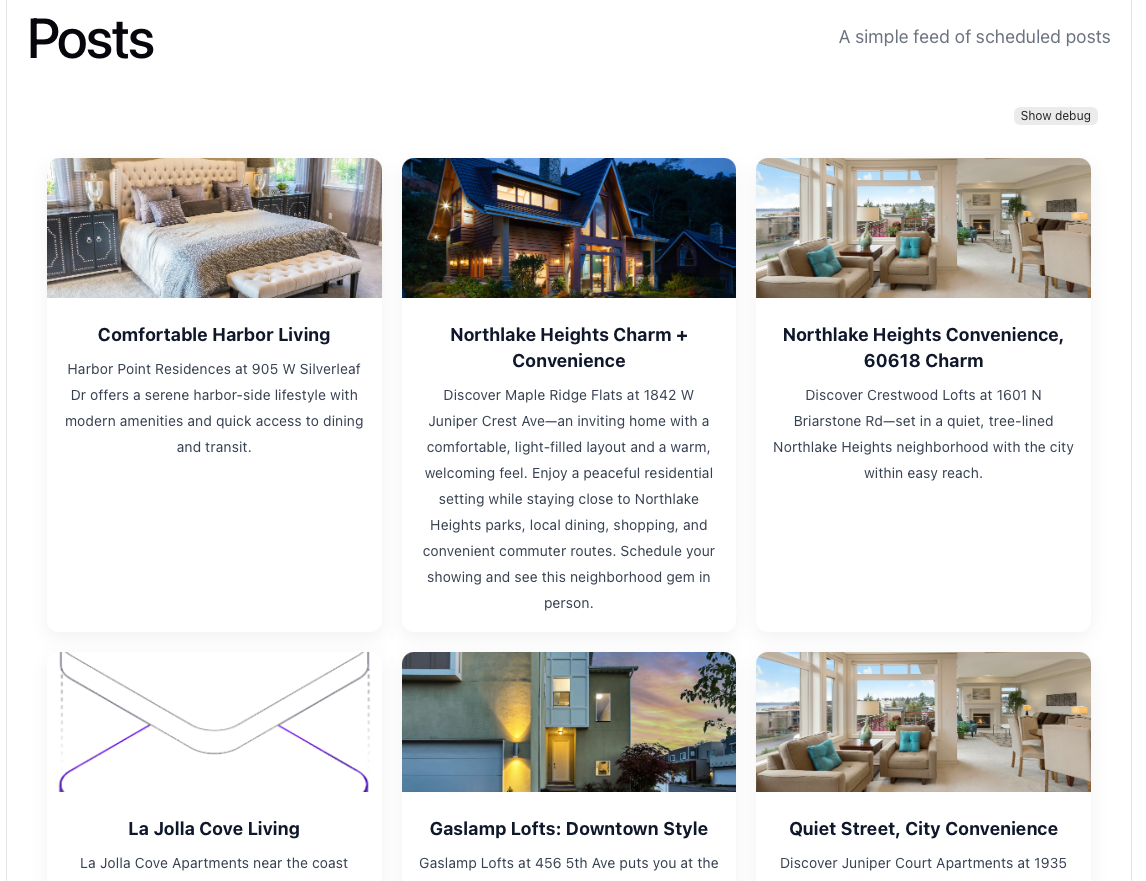
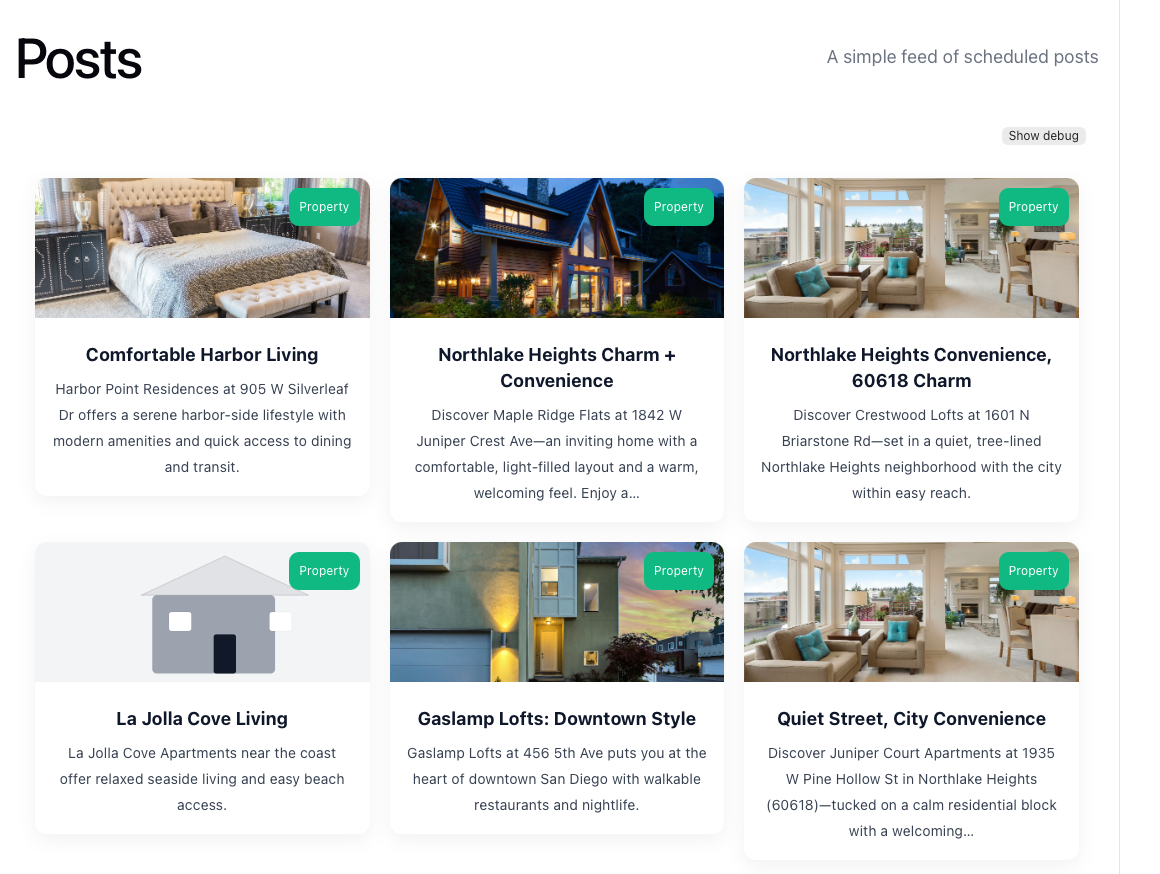
feat: update CI workflow, enhance PostCard component with text truncation, and add new screenshots to README

diff --git a/web/src/components/PostCard.tsx b/web/src/components/PostCard.tsx
@@ -14,6 +14,14 @@ export default function PostCard({ post }: { post: Post }) {
   const img = candidate && (/^https?:\/\//i.test(candidate) || candidate.startsWith('data:')) ? candidate : heroImg
   const date = post.createdAt ? new Date(post.createdAt).toLocaleDateString() : ''
 
+  const truncate = (text: string | null | undefined, n = 150) => {
+    if (!text) return text
+    if (text.length <= n) return text
+    const sub = text.slice(0, n)
+    const idx = sub.lastIndexOf(' ')
+    return (idx > 0 ? sub.slice(0, idx) : sub).trim() + '…'
+  }
+
   return (
     <Link className="post-link" to={`/posts/${encodeURIComponent(post.id)}`}>
       <article className="post-card">
@@ -34,7 +42,7 @@ export default function PostCard({ post }: { post: Post }) {
       <div className="post-body">
         <div className="post-meta">{date}</div>
         <h3 className="post-title">{post.title || 'Untitled post'}</h3>
-        <p className="post-excerpt">{post.excerpt || post.body || 'No description provided.'}</p>
+        <p className="post-excerpt">{truncate(post.excerpt || post.body || 'No description provided.', 150)}</p>
       </div>
       </article>
     </Link>

diff --git a/README.md b/README.md
@@ -186,6 +186,7 @@ This repository includes a small frontend app under `web/` used for local develo
 Screenshot (preview of the Posts feed):
 
 ![Posts screenshot](web/public/posts-screenshot.png)
+![Post Details screenshot](web/public/post-details-screenshot.png)
 
 Notes
 
